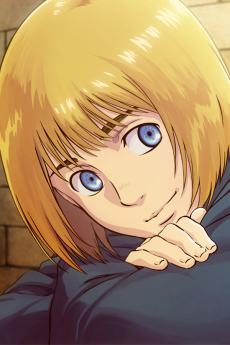
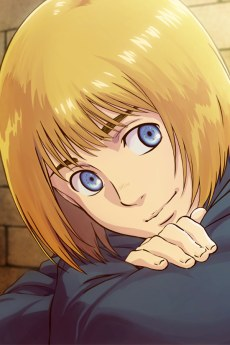
content: 进击的巨人改用人物卡片网格，图片统一为 JPEG

diff --git a/content/posts/videos/进击的巨人/index.md b/content/posts/videos/进击的巨人/index.md
@@ -45,23 +45,17 @@ featureimage = "featured.webp"
 
 ## 关键人物
 
-{{< figure src="imgs-chars/eren.jpg" alt="艾伦·耶格尔" caption="**艾伦·耶格尔** —— 主角。母亲被吞食后立志驱逐巨人，后来成为进击的巨人的继承者" >}}
-
-{{< figure src="imgs-chars/mikasa.jpg" alt="三笠·阿克曼" caption="**三笠·阿克曼** —— 战斗力顶尖，从小被艾伦一家收养，始终护着艾伦" >}}
-
-{{< figure src="imgs-chars/armin.jpg" alt="阿尔敏·阿诺德" caption="**阿尔敏·阿诺德** —— 战术大脑。武力不行，但靠推理和谈判多次改变局面" >}}
-
-{{< figure src="imgs-chars/levi.jpg" alt="利威尔·阿克曼" caption="**利威尔·阿克曼** —— 调查兵团兵长，公认的人类最强士兵" >}}
-
-{{< figure src="imgs-chars/erwin.jpg" alt="埃尔文·史密斯" caption="**埃尔文·史密斯** —— 调查兵团团长。为了拿到真相，敢把整支部队当赌注" >}}
-
-{{< figure src="imgs-chars/hange.jpg" alt="韩吉·佐耶" caption="**韩吉·佐耶** —— 巨人研究负责人，埃尔文之后接任团长" >}}
-
-{{< figure src="imgs-chars/reiner.jpg" alt="莱纳·布朗" caption="**莱纳·布朗** —— 铠之巨人的继承者，来自墙外，在墙内潜伏多年" >}}
-
-{{< figure src="imgs-chars/zeke.jpg" alt="吉克·耶格尔" caption="**吉克·耶格尔** —— 兽之巨人，艾伦同父异母的哥哥，来自墙外" >}}
-
-{{< figure src="imgs-chars/ymir.jpg" alt="尤弥尔" caption="**尤弥尔** —— 104 期训练兵，颚之巨人的继承者" >}}
+{{< charcards >}}
+eren|艾伦·耶格尔|主角。母亲被吞食后立志驱逐巨人，后来成为进击的巨人的继承者
+mikasa|三笠·阿克曼|战斗力顶尖，从小被艾伦一家收养，始终护着艾伦
+armin|阿尔敏·阿诺德|战术大脑。武力不行，但靠推理和谈判多次改变局面
+levi|利威尔·阿克曼|调查兵团兵长，公认的人类最强士兵
+erwin|埃尔文·史密斯|调查兵团团长。为了拿到真相，敢把整支部队当赌注
+hange|韩吉·佐耶|巨人研究负责人，埃尔文之后接任团长
+reiner|莱纳·布朗|铠之巨人的继承者，来自墙外，在墙内潜伏多年
+zeke|吉克·耶格尔|兽之巨人，艾伦同父异母的哥哥，来自墙外
+ymir|尤弥尔|104 期训练兵，颚之巨人的继承者
+{{< /charcards >}}
 
 ## 势力与地名
 
